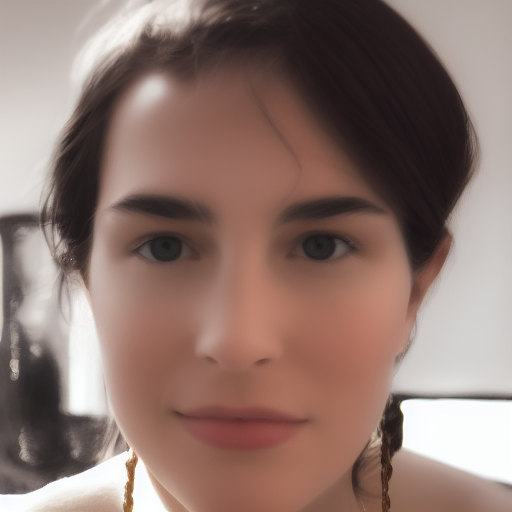
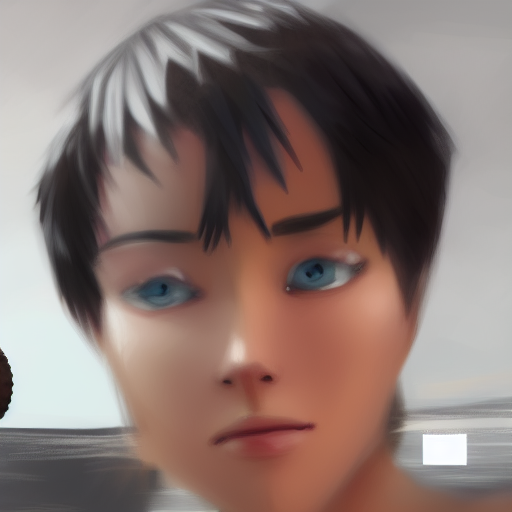
人類美少年システムできたお

diff --git a/HumanGalgeeSystem/Development/HumanGalgeeSystem/ToDesktop/BishoujoWorld.py b/HumanGalgeeSystem/Development/HumanGalgeeSystem/ToDesktop/BishoujoWorld.py
@@ -20,14 +20,14 @@ from utils import CvFpsCalc
 def conv_face2girl(api,prompt,faceimage):
     # 画像を生成する
     # faceimage = Image.open("facetrim.png")
-    girlimage = api.img2img(images = [faceimage], prompt=prompt, seed=5555, cfg_scale=6.5, denoising_strength=0.5)
+    girlimage = api.img2img(images = [faceimage], prompt=prompt, seed=5555, cfg_scale=6.5, denoising_strength=0.4)
     girlimage.image.save("girlimage.png")
         
 
 
 def get_args():
     parser = argparse.ArgumentParser()
-    parser.add_argument("--prompt", type=str, default="Photographic portrait of beautiful women wearing white lace dress, glowing skin, Sony α7, 35mm Lens, f1.8, film grain, golden hour, soft lighting, by Daniel F Gerhartz")
+    parser.add_argument("--prompt", type=str, default="super fine illustration, best quality, anime screencap, cowboy shot, 1 girl, brown hair, basketball court, team uniform, realistic, beautiful, anime, anime faces")
     parser.add_argument("--device", type=int, default=0)
     parser.add_argument("--width", help='cap width', type=int, default=960)
     parser.add_argument("--height", help='cap height', type=int, default=540)

diff --git a/HumanGalgeeSystem/プロンプト集.md b/HumanGalgeeSystem/プロンプト集.md
@@ -1,0 +1,3 @@
+- 美少年プロンプト
+  - "super fine illustration, best quality, anime screencap, cowboy shot, 1 girl, brown hair, basketball court, team uniform, realistic, beautiful, anime, anime faces"
+  - 
